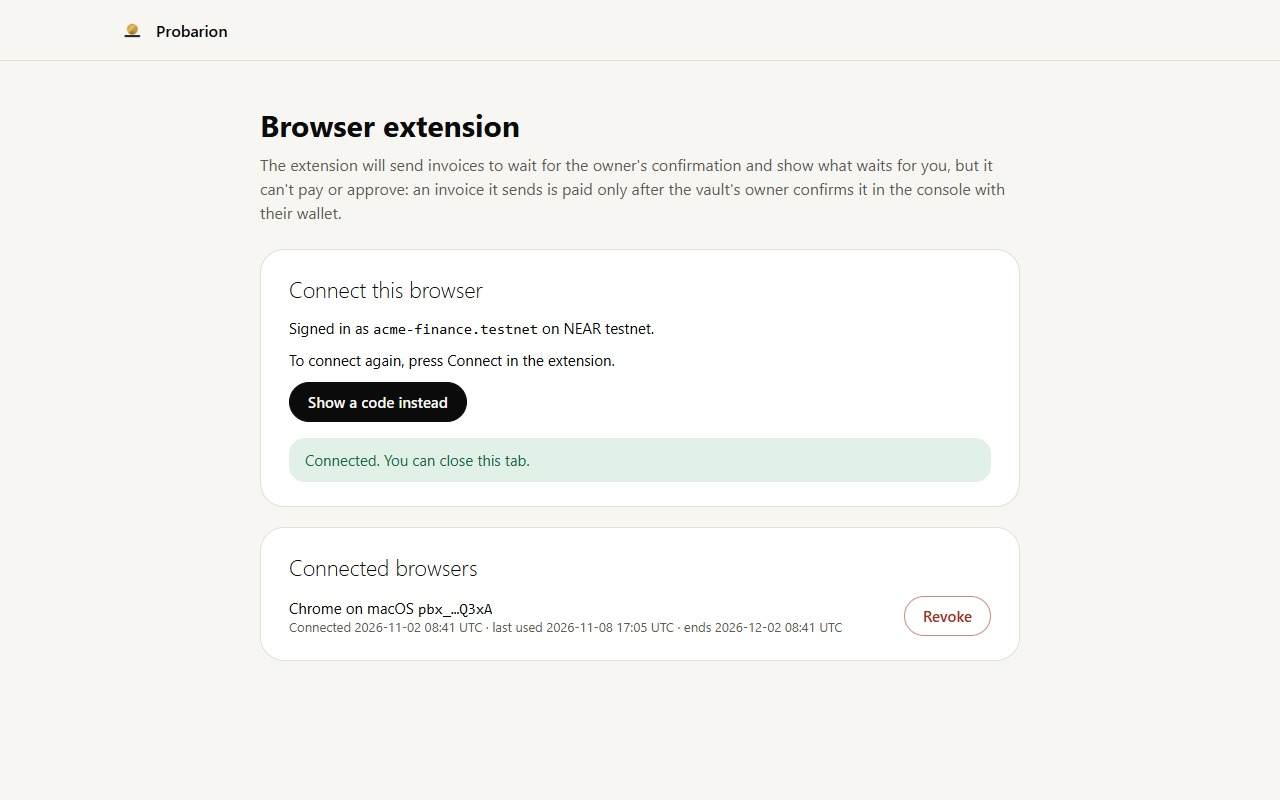
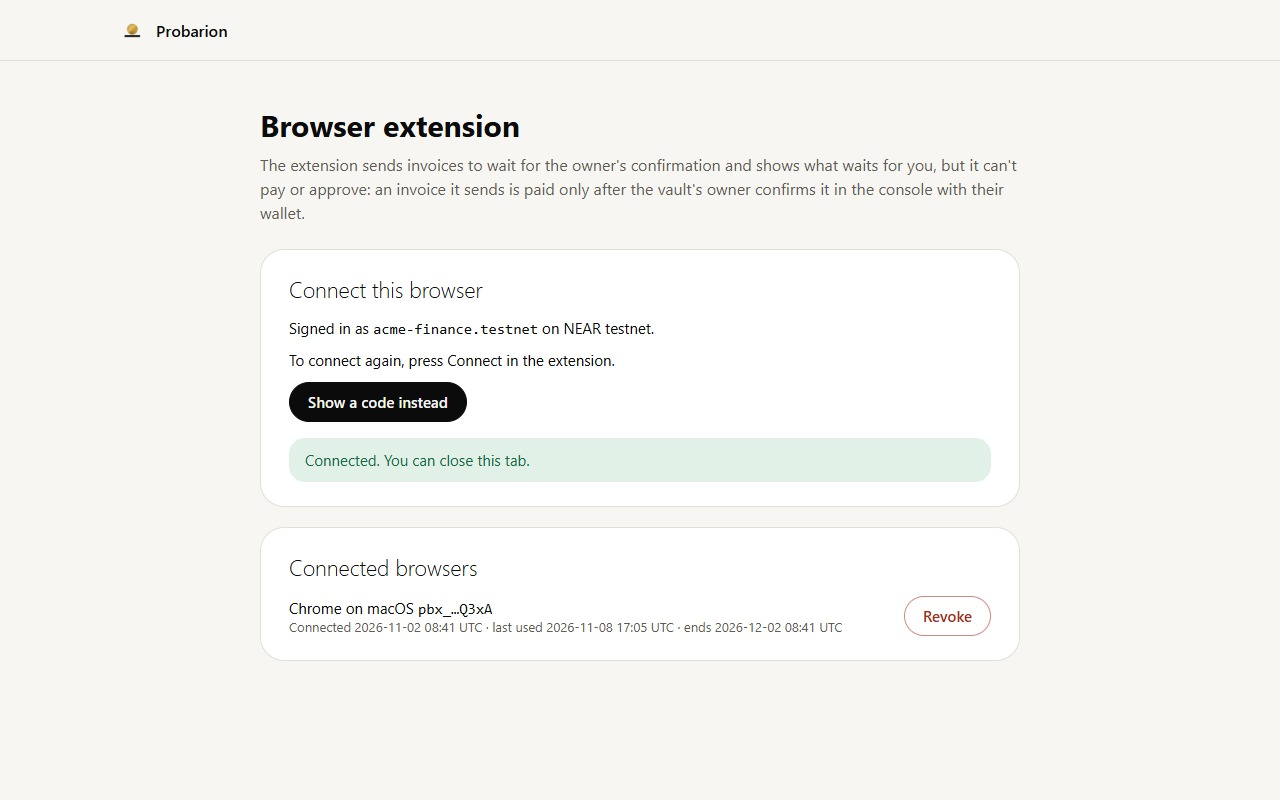
feat(web): the site says what the browser extension does in the present tense
The extension is pending Chrome Web Store review. /privacy#browser-extension,
which the listing links, says what it does and adds that a file read from a tab
or a link is fetched with your own session for that site, and that it reads the
address of the tab you are on when you open it; the page's date is 2026-11-10.
The /extension page says it is pending review and can be loaded unpacked from
apps/extension. What works today lists it as Preview, and the HTTP API page
drops "not released yet". The tests that pinned the old words pin the new ones,
and the store's connect screenshot is rendered with the page's new lead.

Changed region(s): [[0.1875, 0.1875, 0.7812, 0.2812]]

diff --git a/apps/web/src/lib/site/ops-copy.ts b/apps/web/src/lib/site/ops-copy.ts
@@ -31,7 +31,7 @@ export const STATUS_PAGE = {
   whatWorks: "What works today, and what does not",
 } as const;
 
-export const LAST_UPDATED = "2026-11-09";
+export const LAST_UPDATED = "2026-11-10";
 
 /** The lede of /terms and /privacy (spec §13, Legal row). */
 export const LEGAL_STATUS =
@@ -302,15 +302,15 @@ export interface LinkedCopySection extends CopySection {
 
 /**
  * The browser extension's section of /privacy (plan 06 Task 1), rendered last by components/site/ExtensionPrivacy.tsx,
- * which links `end.link` to /extension. The Chrome Web Store listing will link /privacy#browser-extension once the
- * extension is submitted. It is not in PRIVACY_PAGE.sections, so it renders once.
+ * which links `end.link` to /extension. The Chrome Web Store listing (item hhadnmnjdlamihjjoejphkimnbcfidmn, submitted on
+ * 2026-11-10) links /privacy#browser-extension. It is not in PRIVACY_PAGE.sections, so it renders once.
  */
 export const EXTENSION_PRIVACY = {
   id: "browser-extension",
   title: "Browser extension",
   paragraphs: [
-    "The Probarion extension for Chrome is not released yet. This section says what it is built to do, and what Probarion stores for it now. You will connect it to your account on the Browser extension page, `/extension`, signed in with your wallet, or with a pairing code that page shows.",
-    "Once released, the extension will send an invoice to Probarion only when you ask it to: the PDF or text you choose, with the vault and the mandate you pick. It will send it to the Probarion address you connected, and nowhere else. In your browser it will keep the connection token, your account name and network, and, until you send it or close Chrome, the invoice you captured. It will read no page except the PDF or the selection you send, and Probarion's own Browser extension page when you connect. It will have no analytics and will run no code from elsewhere, and its Disconnect button will end its connection.",
+    "The Probarion extension for Chrome is pending Chrome Web Store review. Until the store publishes it, you can load it unpacked from `apps/extension` in Probarion's repository. This section says what it does, and what Probarion stores for it. You connect it to your account on the Browser extension page, `/extension`, signed in with your wallet, or with a pairing code that page shows.",
+    "The extension sends an invoice to Probarion only when you ask it to: the PDF or text you choose, with the vault and the mandate you pick. It sends it to the Probarion address you connected, and nowhere else. A PDF or text file it reads from a tab or a link is fetched from that site the way the tab loaded it, with your own session for that site. In your browser it keeps the connection token, your account name and network, and, until you send it or close Chrome, the invoice you captured. It reads no page except the PDF or the selection you send and Probarion's own Browser extension page when you connect, and, when you open it, the address of the tab you are on, to see whether it is a PDF. It has no analytics and runs no code from elsewhere, and its Disconnect button ends its connection.",
     "For each browser you connect, we store a hash of its connection token, not the token, with the token's last four characters, your account and network, a name for the browser such as Chrome on Windows, and when it was connected, last used, set to end and revoked. The record of a connection stays after it ends. A pairing code is stored as a hash, with your account and network and when it was made, set to end and used. It works once, for ten minutes, and once it is used or expired, its record is deleted the next time a code is made, for anyone.",
     "An invoice sent from the extension is stored under the same vault settings as an upload in the console, with the mandate that was picked, the account that sent it and the checks it was queued with. If your vault is set to keep no invoice files, its record keeps the invoice's hashes and amount, the mandate, the account that sent it and those checks, which name the mandate's payee: not the file, its text, its other facts or its name. It then waits for the vault's owner to confirm it in the console.",
     "A connection works only for your account, and only at the address of the network it was made on. It reads the invoices and held payments waiting for you and your vaults' active mandates, and it can send an invoice to a vault where you are the owner or an approver, under one of its mandates. It cannot pay, approve or confirm a payment: an invoice it sends is paid only after the vault's owner confirms it in the console with their wallet.",

diff --git a/apps/web/test/site-facts.test.ts b/apps/web/test/site-facts.test.ts
@@ -1572,19 +1572,19 @@ describe("the sign-in page", () => {
     expect(page).toContain("const safeNext = extensionNextPath(next) ?? consoleNext;");
   });
 
-  it("says on the Browser extension page that the extension is not released yet", () => {
+  it("says on the Browser extension page that the extension is pending Chrome Web Store review", () => {
     const page = text(WEB, "src", "app", "extension", "page.tsx");
     expect(page).toMatch(
-      /<Notice tone="info">\s*The Probarion extension for Chrome is not released yet\.\s*<\/Notice>/,
+      /<Notice tone="info">\s*The Probarion extension for Chrome is pending Chrome Web Store review\. Until the store\s+publishes it, load it unpacked from apps\/extension in Probarion's repository\.\s*<\/Notice>/,
     );
-    // Its intro puts what the extension does in the future tense, as /privacy does.
+    // Its intro puts what the extension does in the present tense, as /privacy does.
     const words = page.replace(/\s+/g, " ");
     expect(words).toContain(
-      "The extension will send invoices to wait for the owner's confirmation and show what waits for you, but it can't pay or approve: an invoice it sends is paid only after the vault's owner confirms it in the console with their wallet.",
+      "The extension sends invoices to wait for the owner's confirmation and shows what waits for you, but it can't pay or approve: an invoice it sends is paid only after the vault's owner confirms it in the console with their wallet.",
     );
     // An approver's connection can send invoices too, and only the vault's owner confirms (lib/payables/confirm.ts).
     expect(words).not.toContain("after you confirm it");
-    expect(words).not.toContain("The extension sends invoices");
+    expect(words).not.toContain("The extension will send");
   });
 });
 

diff --git a/apps/extension/store/preview/connect.html b/apps/extension/store/preview/connect.html
@@ -93,14 +93,14 @@
       The words are the Browser extension page's own (apps/web: app/extension/page.tsx, ConnectPanel.tsx and
       ConnectedBrowsers.tsx), in the state it shows right after Connect extension took: the button is replaced by the
       sentence about connecting again, the green notice is on, and the list is the one the page loaded with, so it
-      holds a browser connected earlier. The page's "not released yet" notice is left out: the change that releases
-      the extension removes it, and the store upload comes after. Render again if those words change.
+      holds a browser connected earlier. The page's notice about the store review is left out, so the image stays true
+      once the store publishes the extension. Render again if those words change.
     -->
     <header><img src="../../static/icons/32.png" alt="" width="24" height="24" />Probarion</header>
     <main>
       <h1>Browser extension</h1>
       <p class="lead">
-        The extension will send invoices to wait for the owner's confirmation and show what waits for you, but it can't
+        The extension sends invoices to wait for the owner's confirmation and shows what waits for you, but it can't
         pay or approve: an invoice it sends is paid only after the vault's owner confirms it in the console with their
         wallet.
       </p>

diff --git a/apps/web/src/app/extension/page.tsx b/apps/web/src/app/extension/page.tsx
@@ -29,11 +29,14 @@ export default async function ExtensionPage({
       <div className="max-w-5xl">
         <h1 className="mb-2 text-2xl font-semibold">Browser extension</h1>
         <p className="mb-6 text-sm text-mute">
-          The extension will send invoices to wait for the owner's confirmation and show what waits
-          for you, but it can't pay or approve: an invoice it sends is paid only after the vault's
-          owner confirms it in the console with their wallet.
+          The extension sends invoices to wait for the owner's confirmation and shows what waits for
+          you, but it can't pay or approve: an invoice it sends is paid only after the vault's owner
+          confirms it in the console with their wallet.
         </p>
-        <Notice tone="info">The Probarion extension for Chrome is not released yet.</Notice>
+        <Notice tone="info">
+          The Probarion extension for Chrome is pending Chrome Web Store review. Until the store
+          publishes it, load it unpacked from apps/extension in Probarion's repository.
+        </Notice>
         <Card title="Connect this browser">
           <ConnectPanel nonce={nonce} account={session.accountId} network={session.network} />
         </Card>

diff --git a/apps/web/src/app/privacy/page.test.ts b/apps/web/src/app/privacy/page.test.ts
@@ -17,7 +17,8 @@ describe("/privacy", () => {
     for (const fact of [
       "last four characters",
       "ten minutes",
-      "not released yet",
+      "pending Chrome Web Store review",
+      "with your own session for that site",
       "set to end and revoked",
       "its record is deleted the next time a code is made, for anyone",
       "a sixth connection on the same network ends the oldest one",

diff --git a/apps/web/src/lib/docs/pages/start.ts b/apps/web/src/lib/docs/pages/start.ts
@@ -369,6 +369,7 @@ export const START: readonly DocPage[] = [
       "contracts/vault/src/events.rs",
       "apps/web/test/docs-reference.test.ts",
       "apps/web/test/docs-pages.test.ts",
+      "apps/extension",
       "apps/web/src/lib/ext/inbox.ts",
       "apps/web/src/lib/usage/copy.ts",
       "apps/web/src/lib/usage/data.ts",

diff --git a/CHANGELOG.md b/CHANGELOG.md
@@ -475,6 +475,14 @@ The software is an unaudited beta.
 
 ### Changed
 
+- The browser extension is pending Chrome Web Store review (submitted on 2026-11-10), so the site
+  says what it does in the present tense. `/privacy#browser-extension`, which the store listing
+  links, adds that a file read from a tab or a link is fetched with your own session for that site,
+  and that the extension reads the address of the tab you are on when you open it; its date moves to
+  2026-11-10. The `/extension` page says the extension is pending review and can be loaded unpacked
+  from `apps/extension`. The Docs Center's What works today lists the extension for Chrome as Preview,
+  and its HTTP API page drops "not released yet". The store's connect screenshot is rendered again
+  with the page's new lead.
 - The MCP server's row in the status list moves from Planned to "Tried on testnet, not on npm"
   (Preview in the docs), and the README's Status row, its NEAR technology rows, its testnet proof and
   its quick start say what the server and the 402 example do. The Docs Center pages that called the MCP
